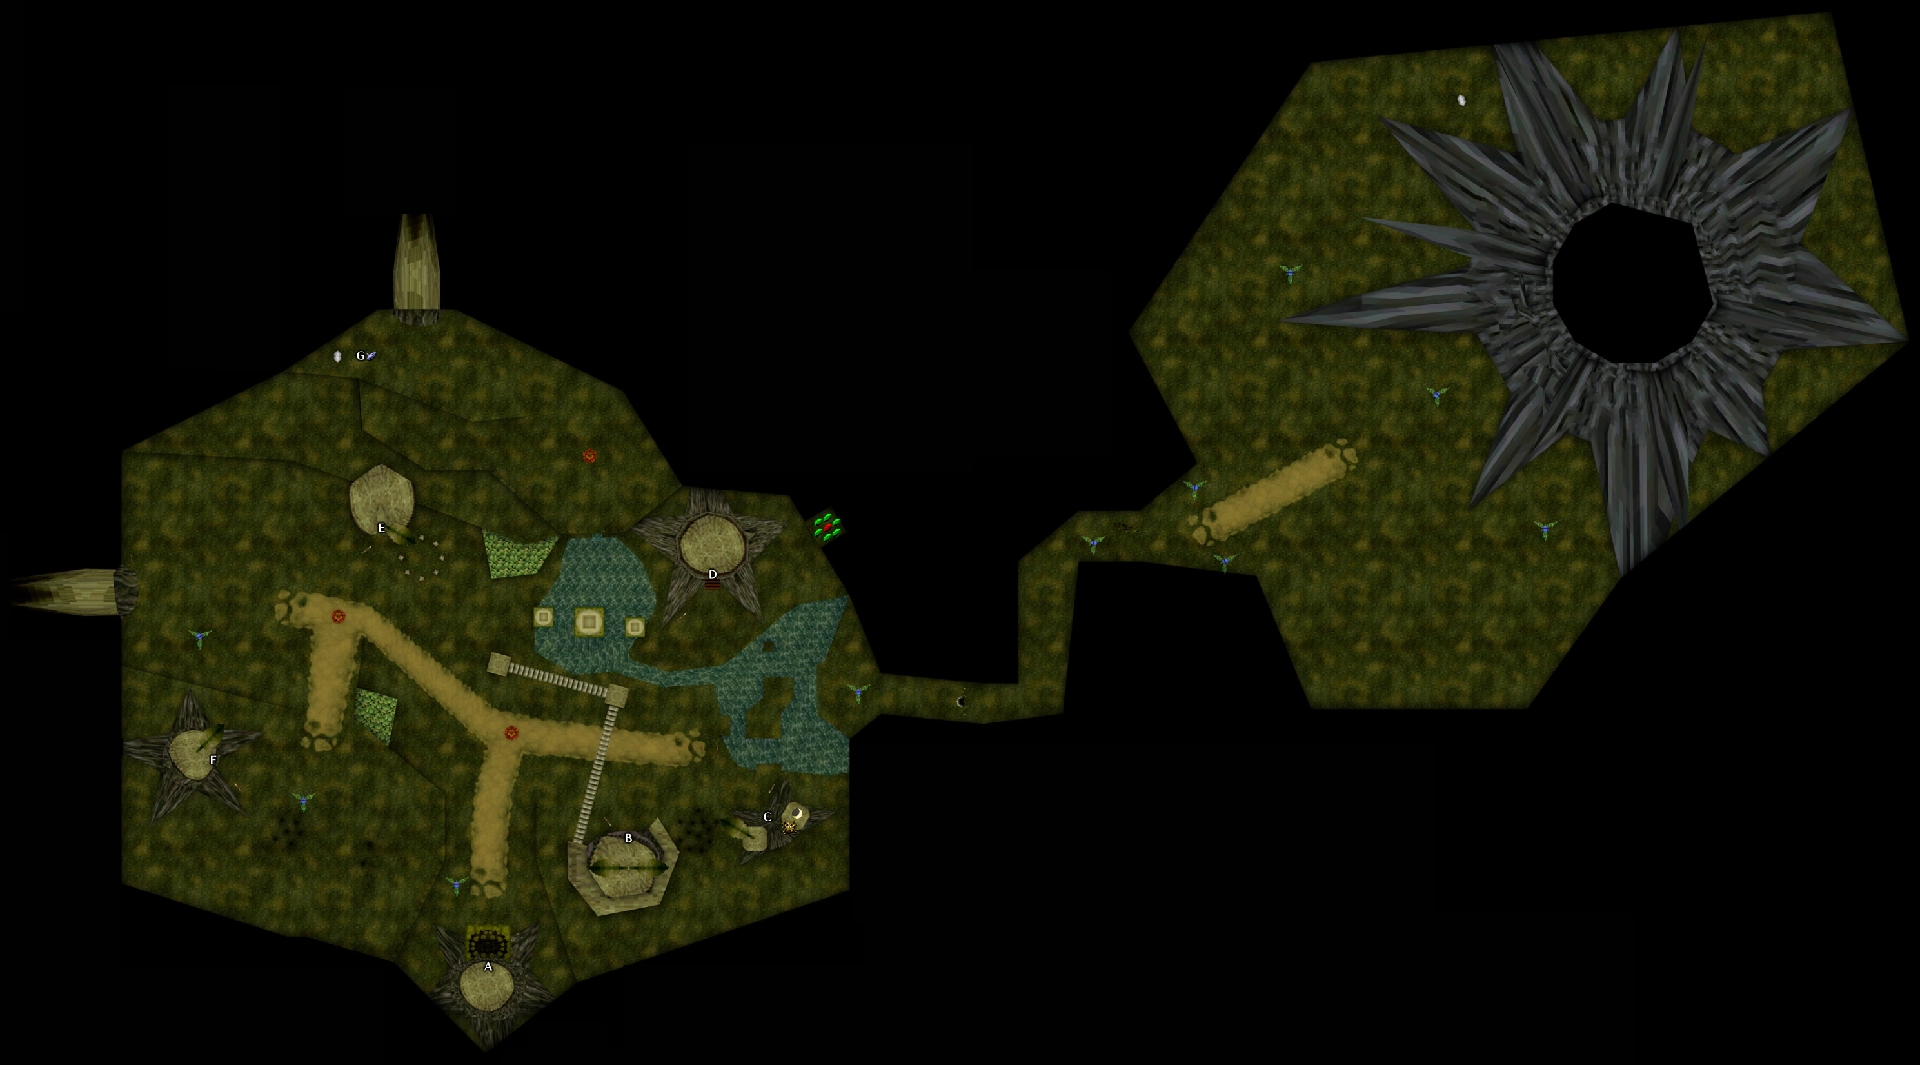
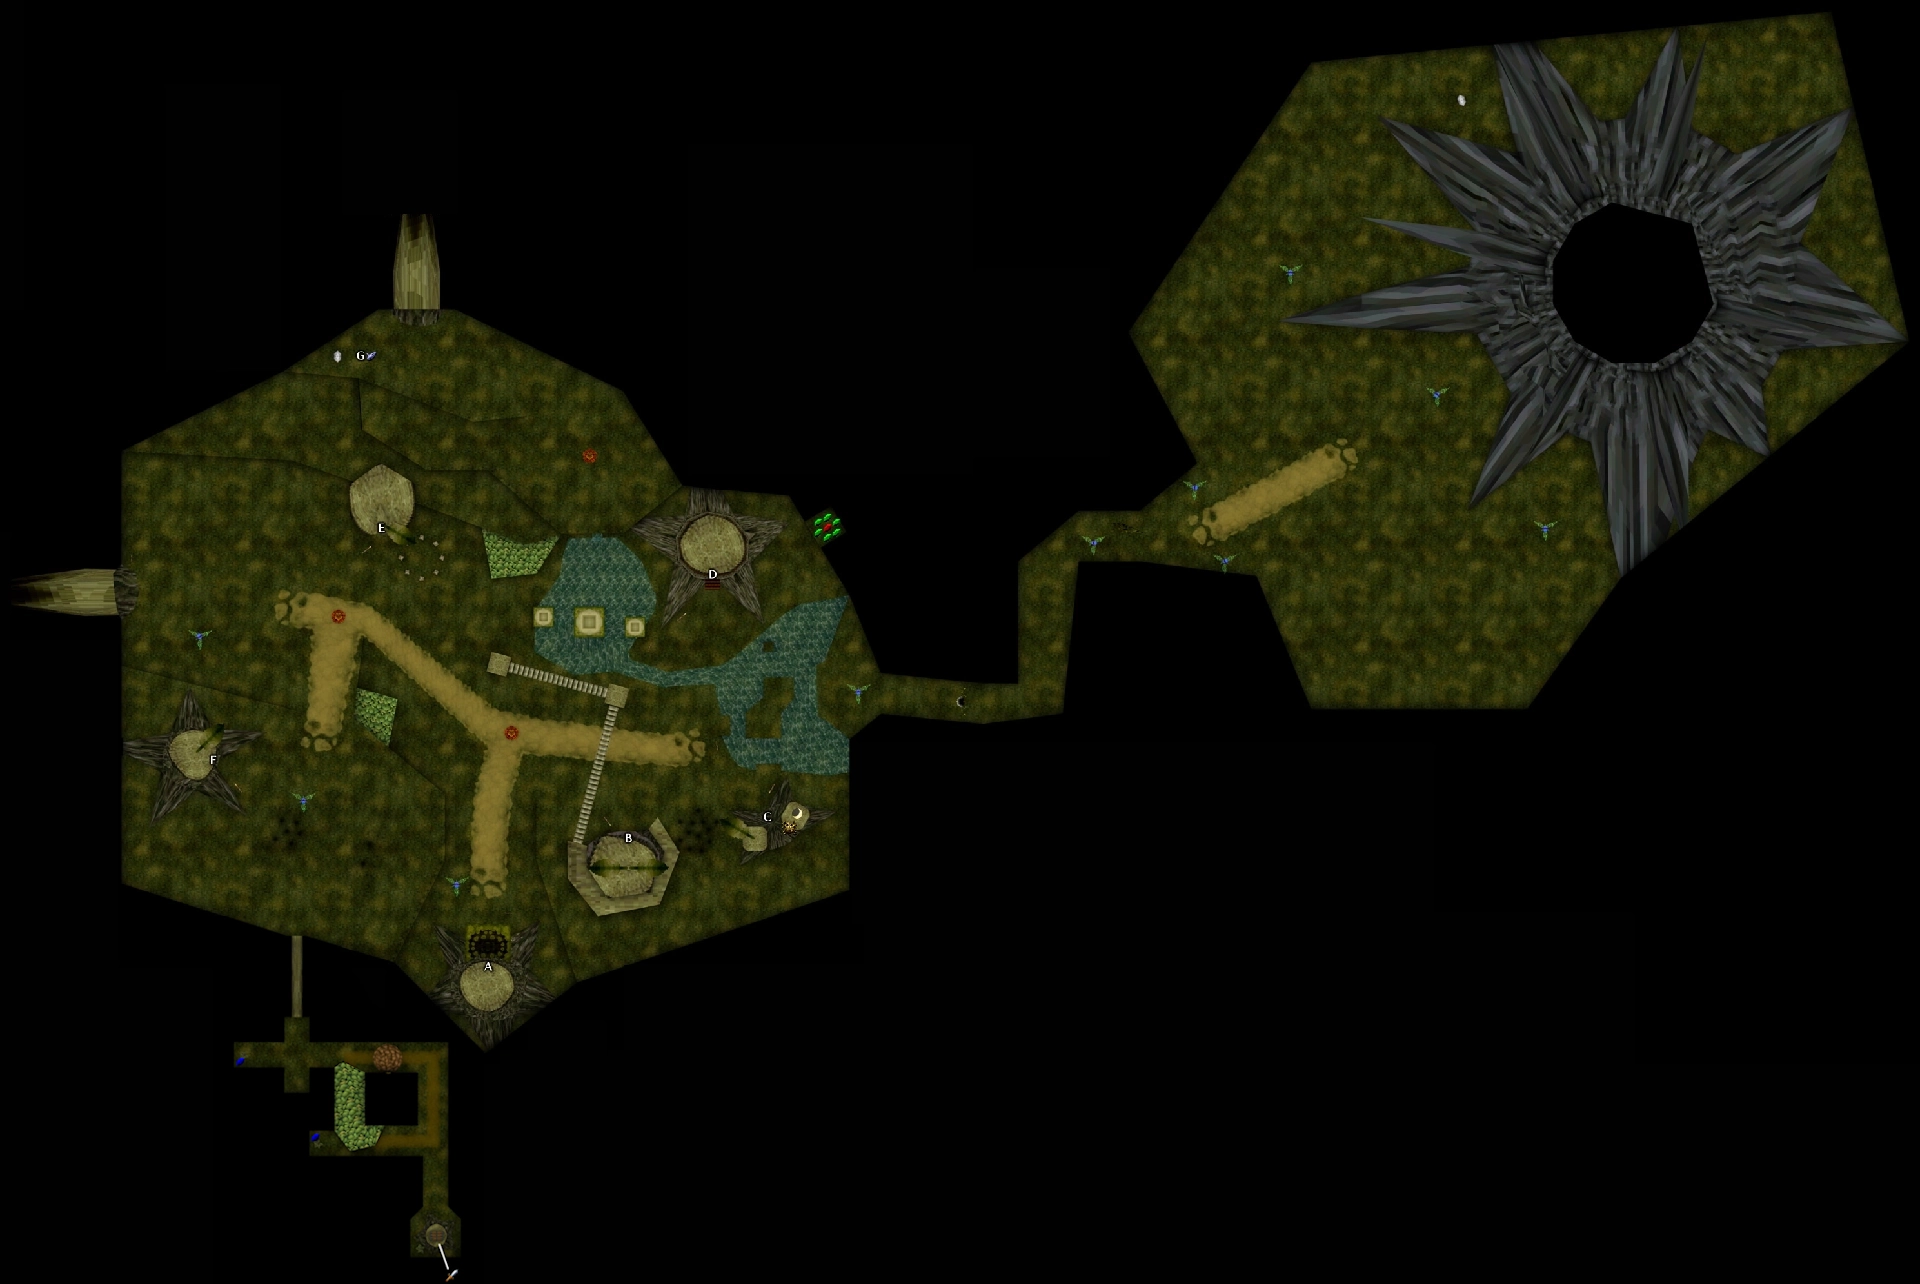
add missing maze section to kokiri forest map; fix minor bug in WorldEditor; fix logic data augmentation errors; fix back house config; add missing crates to market;

Changed region(s): [[0.0, 0.0, 1.0, 0.9915], [0.0, 0.4338, 0.0625, 0.4958], [0.9062, 0.031, 0.9375, 0.062]]

diff --git a/editor/src/modules/world/WorldEditor.js b/editor/src/modules/world/WorldEditor.js
@@ -126,14 +126,18 @@ export default async function() {
                         return;
                     }
                 }
-                await BusyIndicatorManager.busy();
-                const res = await FileSystem.load(".json");
-                await BusyIndicatorManager.unbusy();
-                if (res != null) {
-                    const {data} = res;
-                    if (data != null) {
-                        await editorEl.setWorldData(data);
+                try {
+                    await BusyIndicatorManager.busy();
+                    const res = await FileSystem.load(".json");
+                    await BusyIndicatorManager.unbusy();
+                    if (res != null) {
+                        const {data} = res;
+                        if (data != null) {
+                            await editorEl.setWorldData(data);
+                        }
                     }
+                } catch {
+                    await BusyIndicatorManager.reset();
                 }
             }
         }, {

diff --git a/src/script/util/logic/augment/AugmentOptions.js b/src/script/util/logic/augment/AugmentOptions.js
@@ -9,6 +9,8 @@ function augment(cache) {
         const keyLogic = cache.get("option[small_key_logic]");
         if (KEYSANITY.includes(keyLogic)) {
             cache.setAugmented("option[small_key_logic]", "keylogic_keysanity");
+        } else {
+            cache.deleteAugmented("option[small_key_logic]");
         }
     }
     // open forest
@@ -27,6 +29,8 @@ function augment(cache) {
             const shuffleOverworld = cache.get("option[shuffle_overworld]");
             if (shuffleSpecialInterior || shuffleOverworld || shuffleWarps || shuffleSpawns) {
                 cache.setAugmented("option[doors_open_forest]", "doors_open_forest_deku");
+            } else {
+                cache.deleteAugmented("option[doors_open_forest]");
             }
         }
     }

diff --git a/src/script/util/logic/augment/AugmentOcarinaSongNotes.js b/src/script/util/logic/augment/AugmentOcarinaSongNotes.js
@@ -39,6 +39,12 @@ export function augment(cache) {
     ) {
         const areNotesShuffled = cache.get("option[shuffle_individual_ocarina_notes]");
         if (areNotesShuffled) {
+            cache.deleteAugmented("item[ocarina_a_button]");
+            cache.deleteAugmented("item[ocarina_up_button]");
+            cache.deleteAugmented("item[ocarina_down_button]");
+            cache.deleteAugmented("item[ocarina_left_button]");
+            cache.deleteAugmented("item[ocarina_right_button]");
+
             const hasA = cache.get("item[ocarina_a_button]");
             const hasU = cache.get("item[ocarina_up_button]");
             const hasD = cache.get("item[ocarina_down_button]");

diff --git a/src/script/util/logic/augment/AugmentZoraLetter.js b/src/script/util/logic/augment/AugmentZoraLetter.js
@@ -6,6 +6,8 @@ export function augment(cache) {
     if (cache.hasChange("item[zora_letter]") || cache.hasChange("option[doors_open_zora]")) {
         if (cache.get("option[doors_open_zora]") == "doors_open_zora_both") {
             cache.setAugmented("item[zora_letter]", 1);
+        } else {
+            cache.deleteAugmented("item[zora_letter]");
         }
     }
 }
